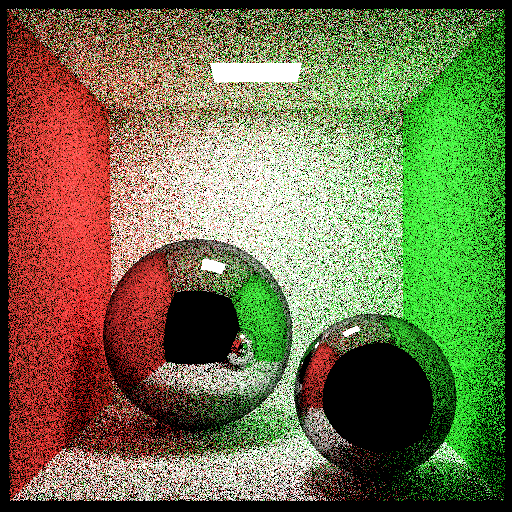
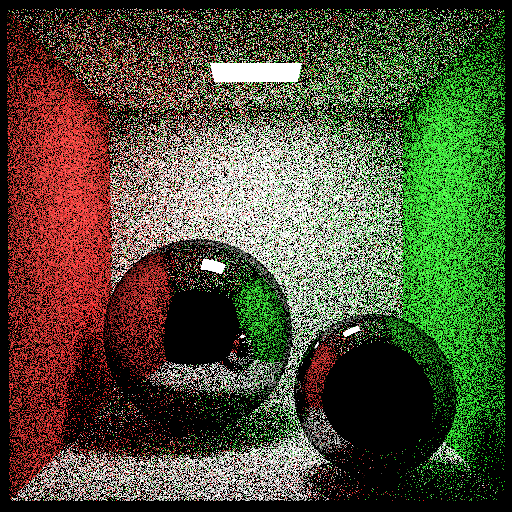
tweak russian roulette

diff --git a/scenes.py b/scenes.py
@@ -28,8 +28,9 @@ class Scene:
         # If the ray is not terminated, its contribution is weighted by the
         # inverse of the termination probability, ensuring that we keep the
         # final radiance unbiased without having to set a predetermined
-        # bounce depth.
-        termination_probability = 1.0 - math.pow(0.85, depth)
+        # bounce depth. We always do at least 5 bounces though before starting
+        # russian roulette to speed up convergence.
+        termination_probability = 0.0 if depth <= 5 else 1.0 - math.pow(0.9, depth)
         terminate = random.uniform(0, 1)
         if terminate <= termination_probability:
             return glm.vec3(0)
